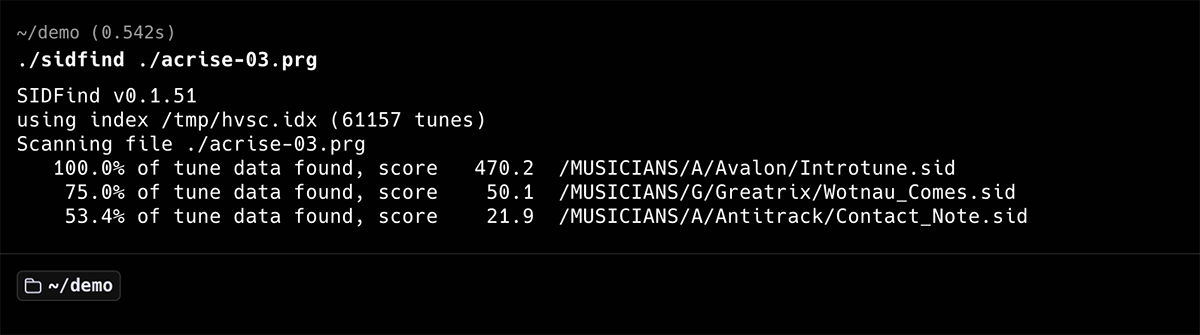
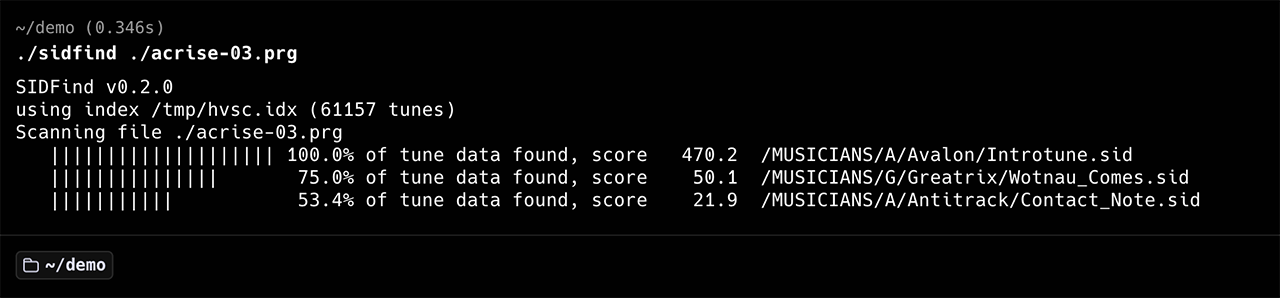
v0.2.0

diff --git a/README.md b/README.md
@@ -41,10 +41,20 @@ command line tool there, or build the app yourself (see [Building](#building)).
 `SHA256SUMS.txt` lets you verify the downloads. `sidfind` is a command line tool: unpack it and run it from a
 terminal (see [Usage](#usage)). `sidfind-gui` starts from the file manager or a terminal.
 
-The binaries are not code-signed, so your OS may warn about them. On macOS, if a browser-downloaded copy is blocked, run
-`xattr -d com.apple.quarantine sidfind` once for the command line tool, and `xattr -dr com.apple.quarantine SidFind.app`
-for the desktop app (the `-r` is needed for the bundle). On Windows choose "More info" and then "Run anyway" in SmartScreen.
-Or build it yourself, as described below.
+### Important note on macOS
+
+If macOS says that **SidFind is damaged and can't be opened**, the app is not broken. The message appears because the
+download is quarantined and the app is not signed by Apple. Do not move it to the Bin. Remove the quarantine flag
+once in Terminal, then open the app as usual:
+
+```
+xattr -dr com.apple.quarantine /Applications/SidFind.app     # or the path where you put SidFind.app
+```
+
+For the command line tool, use `xattr -d com.apple.quarantine sidfind` (no `-r`, that is only for the app bundle).
+
+The binaries are not code-signed, so your OS may warn about them. On Windows choose "More info" and then "Run anyway" in
+SmartScreen. Or build it yourself, as described below.
 
 
 ## Usage
@@ -268,7 +278,7 @@ RAM of a machine that has run, so the demo is unpacked. That RAM is used as it i
 
 ## Changelog
 
-### Unreleased
+### 0.2.0 (2026-11-27)
 
 - New desktop app, `sidfind-gui`, with native windows on macOS, Windows and Linux: drag and drop a PRG or VICE
   snapshot, scan on the fly or with an index, build the index from a settings window, light and dark appearance.
